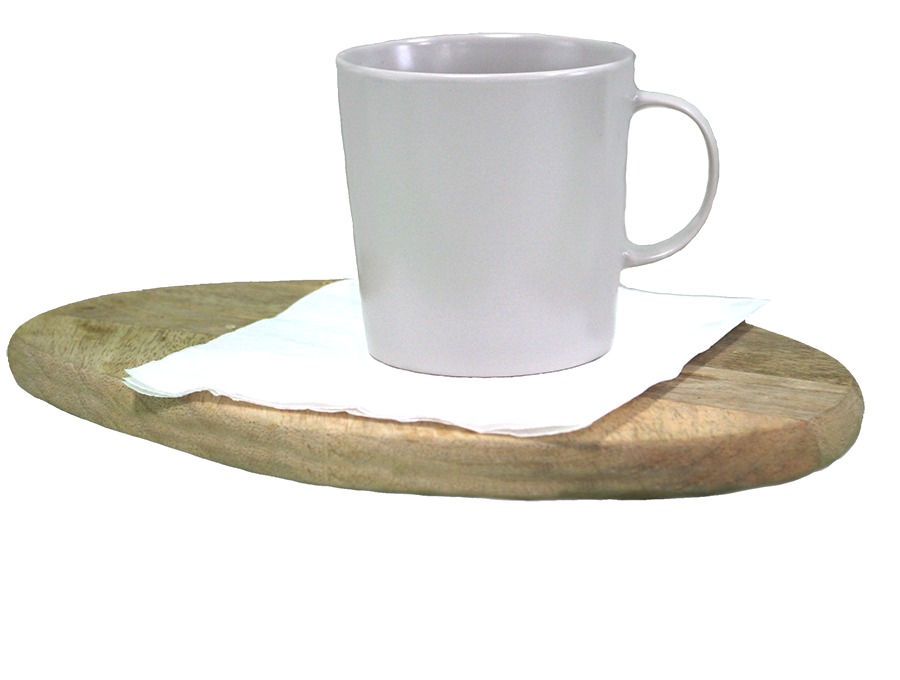
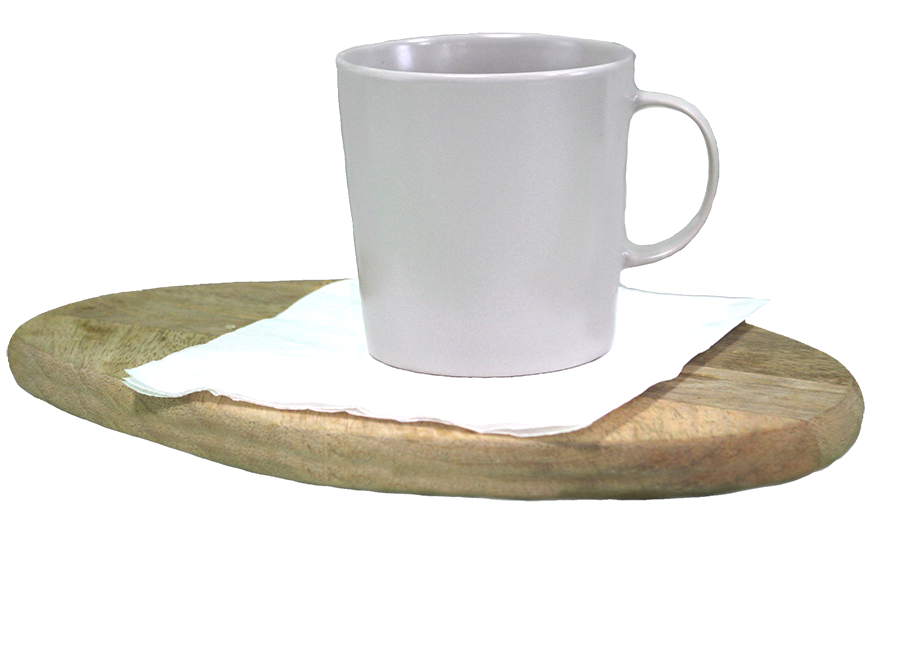
changed all images to the same size

diff --git a/public/index.html b/public/index.html
@@ -51,7 +51,7 @@
 				</div>
 				
 				<div class="carousel-item slide" data-interval="5000" style="background-color: #190f27;">
-					<img src="images/toast2.png" alt="..." class="productslide" id="toast" >
+					<img src="images/toast2.png" alt="..." class="productslide product-image">
 					<img src="images/dot.png" alt="..." class="productslide dot">
 					<img src="images/money-dot.png" alt="..." class="productslide moneydot">
 					<div class="carousel-caption d-none d-md-block productprice">
@@ -62,7 +62,7 @@
 				</div>
 
 				<div class="carousel-item slide" data-interval="5000" style="background-color: #190f27;">
-					<img src="images/kaffe2.png" alt="..." class="productslide " id="kaffe" >
+					<img src="images/kaffe2.png" alt="..." class="productslide product-image">
 					<img src="images/dot.png" alt="..." class="productslide dot">
 					<img src="images/money-dot.png" alt="..." class="productslide moneydot">
 					<div class="carousel-caption d-none d-md-block productprice">
@@ -72,7 +72,7 @@
 				</div>
 
 				<div class="carousel-item slide" data-interval="5000" style="background-color: #190f27;">
-					<img src="images/wiener2.png" alt="..." class="productslide " id="wiener" >
+					<img src="images/wiener2.png" alt="..." class="productslide product-image">
 					<img src="images/dot.png" alt="..." class="productslide dot">
 					<img src="images/money-dot.png" alt="..." class="productslide moneydot">
 					<div class="carousel-caption d-none d-md-block productprice">

diff --git a/public/prislistacss.css b/public/prislistacss.css
@@ -84,16 +84,9 @@ body{
 	font-family: 'Bebas Neue', cursive;
 }
 
-#toast{
+.product-image{
 	z-index:1;
-	bottom:550px;
-	left: 50px;
-	
-}
-
-#korv{
-	z-index:1;
-	bottom:675px;
+	bottom:600px;
 	left: 50px;
 	
 }
